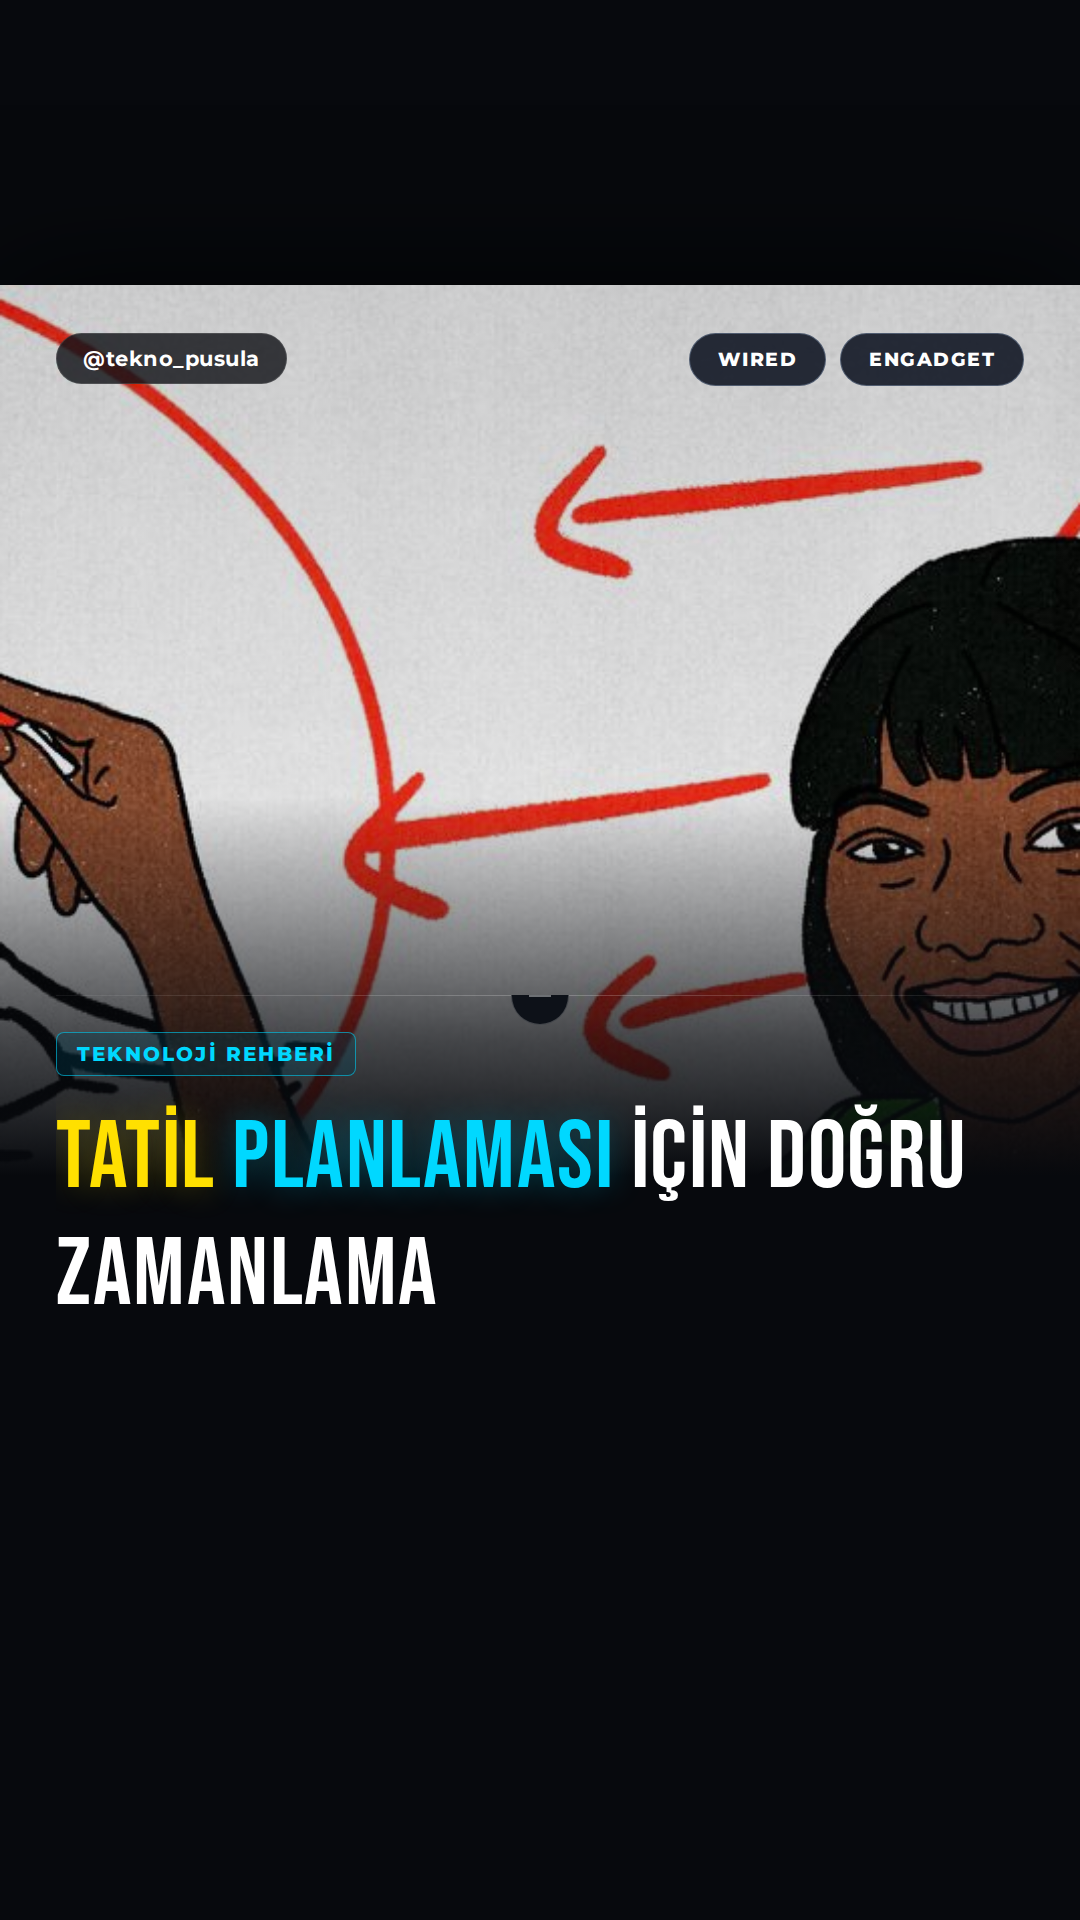
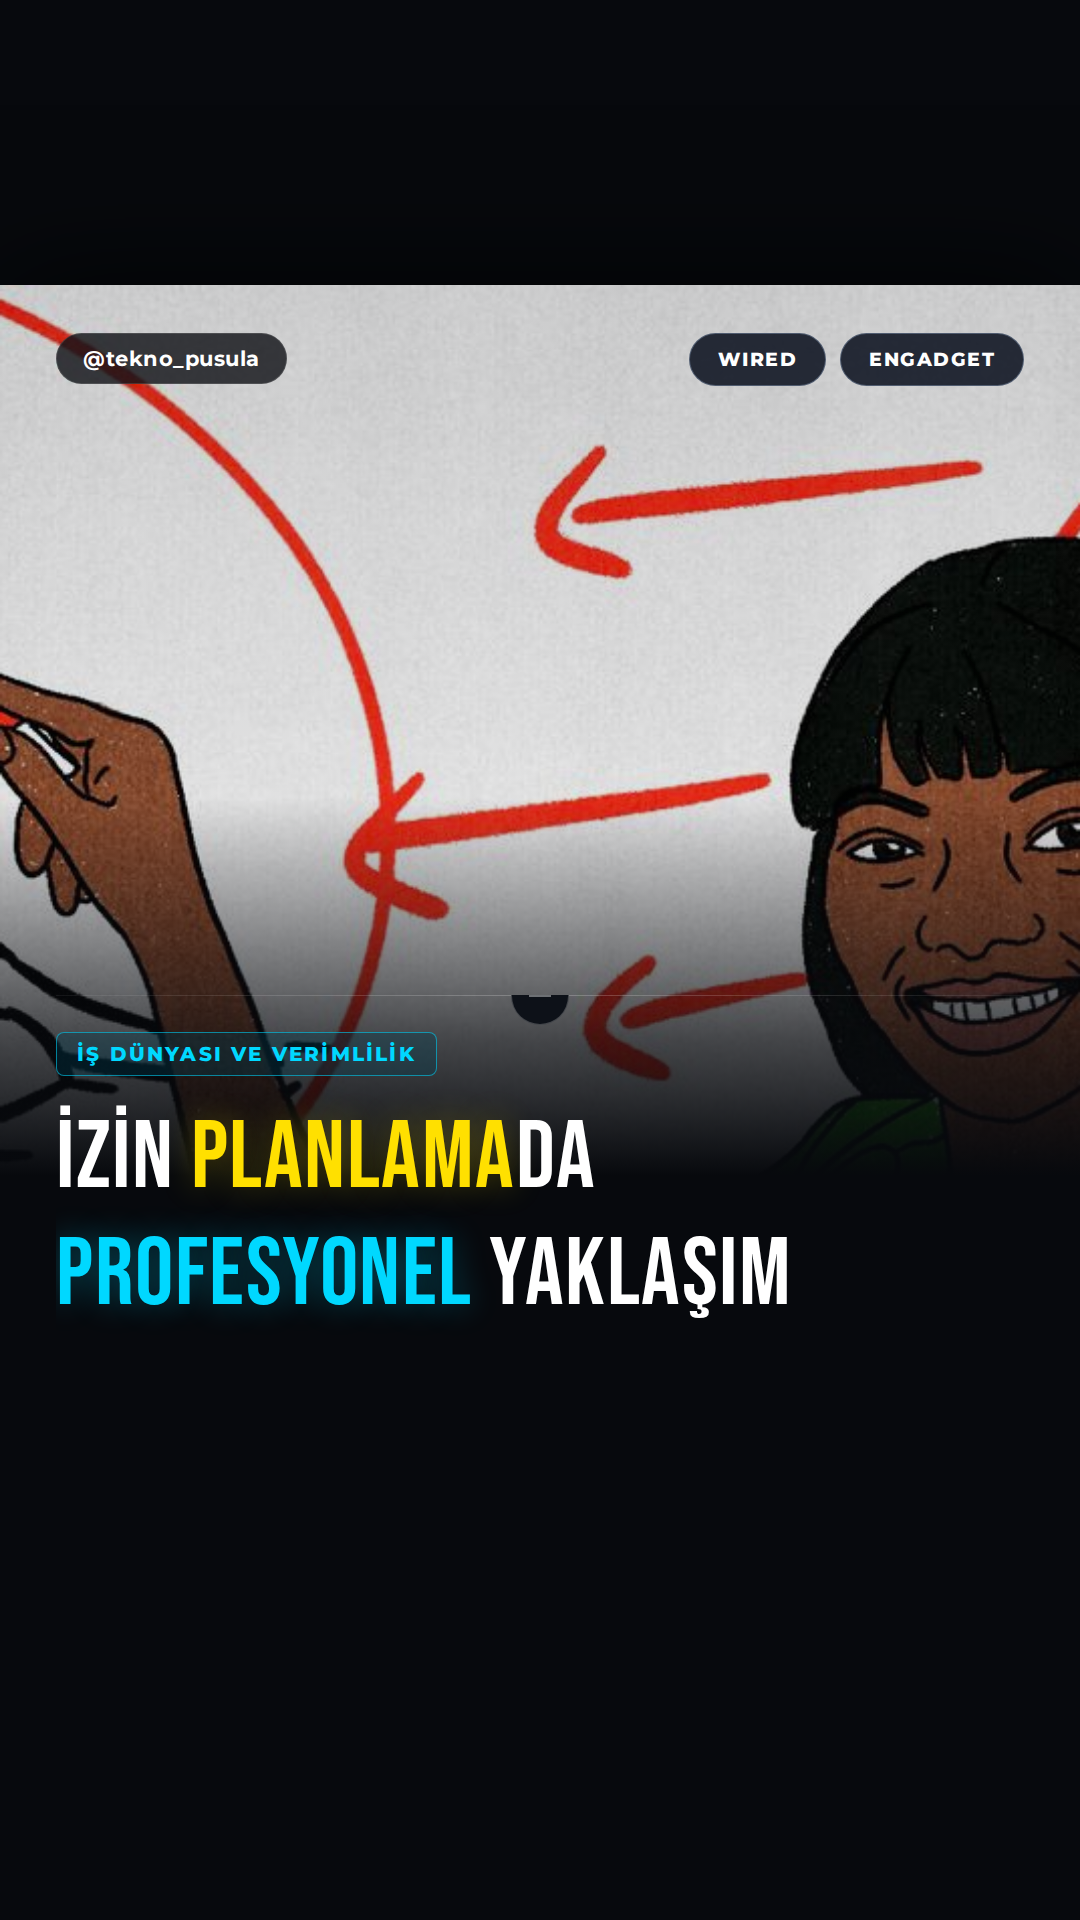
🤖 post: 2026-11-08 09:00 – How to Remind Your Boss of Your PTO Without Pissing Them Off

Changed region(s): [[0.0306, 0.5312, 0.9167, 0.6875]]

diff --git a/output/2026-11-08/01-0900-how-to-remind-your-boss-of-your-pto-without-piss/verification.md b/output/2026-11-08/01-0900-how-to-remind-your-boss-of-your-pto-without-piss/verification.md
@@ -3,60 +3,58 @@
 **Haber:** How to Remind Your Boss of Your PTO Without Pissing Them Off
 **Canonical URL:** https://www.wired.com/story/how-to-remind-your-boss-about-your-vacation/
 **Kaynaklar:** Wired, Engadget, IEEE Spectrum
-**Kontrol zamanı:** 2026-11-08T14:17:58+03:00
+**Kontrol zamanı:** 2026-11-08T14:22:23+03:00
 **Sonuç:** ✅ YAYINLANABİLİR
 
 ---
 
 ## İddia Bazlı Sonuçlar
 
-### 1. Tatil talebini planlamak icin 4 ila 6 ay onceden istemek mumkundur.
+### 1. İzin tarihini önceden planlamayı sevenler, izni dört ila altı ay öncesinden talep edebilir.
 - **Karar:** ✅ `supported`
 - **Kanıtlar:**
   - [https://www.wired.com/story/how-to-remind-your-boss-about-your-vacation/](https://www.wired.com/story/how-to-remind-your-boss-about-your-vacation/)
     > If you like to plan in advance, you might request time off four to six months out.
 
-### 2. Izin baslangicindan 4 ila 6 hafta once tatil talebinde bulunmak uygun bir suredir.
+### 2. İzin talepleri için dört ila altı hafta öncesi genellikle uygun bir süredir.
 - **Karar:** ✅ `supported`
 - **Kanıtlar:**
   - [https://www.wired.com/story/how-to-remind-your-boss-about-your-vacation/](https://www.wired.com/story/how-to-remind-your-boss-about-your-vacation/)
-    > four to six weeks before your time off is probably about right.
-  - [https://www.wired.com/story/how-to-remind-your-boss-about-your-vacation/](https://www.wired.com/story/how-to-remind-your-boss-about-your-vacation/)
     > If this conversation doesn't give you much clarity, four to six weeks before your time off is probably about right.
 
-### 3. Tatilden yaklasik iki hafta once yoneticiye ve meslektaslara toplantilarda sozlu olarak hatirlatma yapilmalidir.
+### 3. Düğün veya iadesiz seyahat gibi masraflı durumlar için altı ay veya daha öncesinden talep makul sayılabilir.
+- **Karar:** ✅ `supported`
+- **Kanıtlar:**
+  - [https://www.wired.com/story/how-to-remind-your-boss-about-your-vacation/](https://www.wired.com/story/how-to-remind-your-boss-about-your-vacation/)
+    > Occasionally, you need approval well in advance for an event that cannot move and will cost you a lot of money to cancel, like your own wedding or a nonrefundable trip. In those cases, six months or more is not unreasonable
+
+### 4. İzinden yaklaşık iki hafta önce amir ve iş arkadaşlarına toplantılarda sözlü hatırlatma yapılmalıdır.
 - **Karar:** ✅ `supported`
 - **Kanıtlar:**
   - [https://www.wired.com/story/how-to-remind-your-boss-about-your-vacation/](https://www.wired.com/story/how-to-remind-your-boss-about-your-vacation/)
     > About two weeks before your time off, remind your boss and colleagues verbally in meetings.
+  - [https://www.wired.com/story/how-to-remind-your-boss-about-your-vacation/](https://www.wired.com/story/how-to-remind-your-boss-about-your-vacation/)
+    > About two weeks before your time off, remind your boss and colleagues verbally in meetings. The ideal settings are in a weekly one-on-one meeting with your direct manager and in a team meeting.
 
-### 4. Departman disindaki kisilere planlanan izin yazili olarak bir hafta once bildirilmelidir.
+### 5. Ekip dışındaki kişilere planlanan izin yazılı olarak bir hafta önce bildirilmelidir.
 - **Karar:** ✅ `supported`
 - **Kanıtlar:**
   - [https://www.wired.com/story/how-to-remind-your-boss-about-your-vacation/](https://www.wired.com/story/how-to-remind-your-boss-about-your-vacation/)
     > If you need to tell someone beyond your team—such as clients or another department—about your planned time off, do so in writing a week before you leave.
 
-### 5. Izin baslamadan iki is gunu once,ikeylem gerektiren kisilere kisa ve net bir mesaj gonderilmelidir.
+### 6. İzinden iki iş günü önce, izin alacak kişilere kısa ve net bir mesaj gönderilmelidir.
 - **Karar:** ✅ `supported`
 - **Kanıtlar:**
   - [https://www.wired.com/story/how-to-remind-your-boss-about-your-vacation/](https://www.wired.com/story/how-to-remind-your-boss-about-your-vacation/)
     > Two business days before your time off begins, send a short, clear message to everyone who needs to know that you will be out.
 
-### 6. Izin mesajindaki ikinci tarih, tatilin son gununu degil ise baslanacak tarihi gostermelidir.
+### 7. Pazartesi günü izin başlayacaksa, mesaj perşembe günü gönderilmelidir.
 - **Karar:** ✅ `supported`
 - **Kanıtlar:**
   - [https://www.wired.com/story/how-to-remind-your-boss-about-your-vacation/](https://www.wired.com/story/how-to-remind-your-boss-about-your-vacation/)
-    > The second DATE is the day you return to work, not the last day of your PTO.
+    > Why send this message two business days out? Simple: If your first PTO day is Monday, you send this message on Thursday
 
-### 7. Izin baslamadan iki is gunu once gonderilecek mesaj Persembe gunu gonderilmelidir eger izin Pazartesi basliyorsa.
-- **Karar:** ✅ `supported`
-- **Kanıtlar:**
-  - [https://www.wired.com/story/how-to-remind-your-boss-about-your-vacation/](https://www.wired.com/story/how-to-remind-your-boss-about-your-vacation/)
-    > If your first PTO day is Monday, you send this message on Thursday so that anybody who takes off or calls in sick on Friday still sees it in time.
-  - [https://www.wired.com/story/how-to-remind-your-boss-about-your-vacation/](https://www.wired.com/story/how-to-remind-your-boss-about-your-vacation/)
-    > Why send this message two business days out? Simple: If your first PTO day is Monday, you send this message on Thursday so that anybody who takes off or calls in sick on Friday still sees it in time.
-
-### 8. Asiri unutkan yoneticiler ve is arkadaslari icin iznin ilk gunu saat 08:30 da otomatik bir mesaj ayarlanabilir.
+### 8. İzin gününde saat 8:30'da otomatik bir mesaj kurulabilir.
 - **Karar:** ✅ `supported`
 - **Kanıtlar:**
   - [https://www.wired.com/story/how-to-remind-your-boss-about-your-vacation/](https://www.wired.com/story/how-to-remind-your-boss-about-your-vacation/)
@@ -68,14 +66,14 @@
 
 | İddia | 1. Tur | 2. Tur | Nihai |
 |-------|--------|--------|-------|
-| Tatil talebini planlamak icin 4 ila 6 ay onceden istemek mum | supported | supported | supported |
-| Izin baslangicindan 4 ila 6 hafta once tatil talebinde bulun | supported | supported | supported |
-| Tatilden yaklasik iki hafta once yoneticiye ve meslektaslara | supported | supported | supported |
-| Departman disindaki kisilere planlanan izin yazili olarak bi | supported | supported | supported |
-| Izin baslamadan iki is gunu once,ikeylem gerektiren kisilere | supported | supported | supported |
-| Izin mesajindaki ikinci tarih, tatilin son gununu degil ise  | supported | supported | supported |
-| Izin baslamadan iki is gunu once gonderilecek mesaj Persembe | supported | supported | supported |
-| Asiri unutkan yoneticiler ve is arkadaslari icin iznin ilk g | supported | supported | supported |
+| İzin tarihini önceden planlamayı sevenler, izni dört ila alt | supported | supported | supported |
+| İzin talepleri için dört ila altı hafta öncesi genellikle uy | supported | supported | supported |
+| Düğün veya iadesiz seyahat gibi masraflı durumlar için altı  | supported | supported | supported |
+| İzinden yaklaşık iki hafta önce amir ve iş arkadaşlarına top | supported | supported | supported |
+| Ekip dışındaki kişilere planlanan izin yazılı olarak bir haf | supported | supported | supported |
+| İzinden iki iş günü önce, izin alacak kişilere kısa ve net b | supported | supported | supported |
+| Pazartesi günü izin başlayacaksa, mesaj perşembe günü gönder | supported | supported | supported |
+| İzin gününde saat 8:30'da otomatik bir mesaj kurulabilir. | supported | supported | supported |
 
 ## Kaynak Metinleri
 

diff --git a/output/2026-11-08/01-0900-how-to-remind-your-boss-of-your-pto-without-piss/captions.md b/output/2026-11-08/01-0900-how-to-remind-your-boss-of-your-pto-without-piss/captions.md
@@ -2,36 +2,72 @@
 
 ## INSTAGRAM
 
-Tatil planlamasını stressiz yönetmek artık çok kolay! İzin süreçlerinizi doğru zamanlamayla nasıl planlayacağınızı adım adım rehberimizde derledik. Uzun vadeli planlar için 4 ila 6 ay öncesi ideal bir zaman dilimiyken, yakın dönem planlarda bu süre 4 ila 6 haftaya kadar iniyor. Siz tatil planlarınızı ne kadar süre önceden yapıyorsunuz? Kaynak: Wired, Engadget
+İş akışını bozmadan, huzurla tatil yapmanın sırrı doğru planlamadan geçiyor! 🏖 Profesyonel bir izin süreci, hem sizin hem de ekibinizin üzerindeki stresi azaltır.
 
-#tatil #tatilplanlamasi #teknorehber #izin #seyahat #planlama #wired #engadget #travel #vacation #planning
+Genel izin taleplerinizi 4-6 hafta öncesinden iletmek en idealidir. Düğün veya büyük seyahatler gibi özel durumlarda ise bu süreyi 6 aya kadar çıkarabilirsiniz.
+
+Unutmayın, izne çıkmadan 2 iş günü önce ekibinize kısa bir hatırlatma mesajı atmak, profesyonelliğinizi gösterir ve iş akışını korur.
+
+Siz izin planlarınızı ne kadar süre önceden yapıyorsunuz? Yorumlarda buluşalım!
+
+Kaynak: Wired, Engadget, IEEE Spectrum
+
+#İşDünyası #Verimlilik #Kariyerİpuçları #İzinPlanlama #ProfesyonelGelişim #WorkLifeBalance #TimeManagement #CareerTips
 
 ## TIKTOK
 
-Tatil planınızı ne zaman yapmalısınız? 4-6 ay önceden planlamanın sırları ve iş yerinde sorunsuz izin süreci rehberi! Kaynak: Wired
+İş yerinde izin alırken profesyonel kalmanın yolları! 📅 İzin talebini ne zaman yapmalı? İzin öncesi hatırlatma mesajı neden kritik? İşte iş akışını bozmadan tatil yapmanın rehberi. 🚀
 
-#tatil #planlama #wired #traveltok
+Kaynak: Wired, Engadget, IEEE Spectrum
+
+#Kariyer #İşHayatı #Verimlilik
 
 ## X
 
-Tatil planlamasını stressiz yönetmek için doğru zamanlama rehberi yayında! Uzun vadeli planlar için 4-6 ay, yakın dönem için 4-6 hafta önceden bildirim hayat kurtarıyor. Siz tatilleri ne zaman planlıyorsunuz? Kaynak: Wired, Engadget
+İzin planlamada profesyonel yaklaşım: Genel izinler için 4-6 hafta, özel durumlar için 6 ay öncesinden bildirimde bulunun. İzne çıkmadan 2 iş günü önce hatırlatma mesajı atmayı unutmayın. İş akışını bozmadan tatil yapmanın yolu bu! 🏖
 
-#tatil #rehber
+Kaynak: Wired, Engadget, IEEE Spectrum
+
+#Kariyer #Verimlilik
 
 ## THREADS
 
-Tatil Planlaması İçin Doğru Zamanlama 🌴 İzin süreçlerini stressiz yönetmek için adım adım rehberimiz yayında. Uzun vadeli planlar için 4-6 ay, yakın dönem için 4-6 hafta önceden bildirim yapmak en doğrusu. Siz tatil planlarınızı ne kadar süre önceden yapıyorsunuz? 💭 Kaynak: Wired
+İzin Planlamada Profesyonel Yaklaşım 📅
 
-#tatil
+İzin taleplerinizi 4-6 hafta öncesinden iletmek, iş akışını korumak için en ideal süredir. Özel durumlarda ise 6 ay öncesinden planlama yapmak profesyonel bir yaklaşımdır.
+
+İzinden 2 iş günü önce ekibinize kısa bir hatırlatma mesajı atmayı unutmayın. Bu, hem sizin hem de iş arkadaşlarınızın hazırlıklı olmasını sağlar. 💭
+
+Kaynak: Wired, Engadget, IEEE Spectrum
+
+#Kariyer
 
 ## LINKEDIN
 
-İş hayatında izin süreçlerini stressiz ve profesyonel bir şekilde yönetmek doğru zamanlamadan geçer. Tatil taleplerini uzun vadede 4 ila 6 ay, yakın dönemde ise 4 ila 6 hafta öncesinden planlamak hem çalışan hem de ekip için iş süreçlerini aksatmaz. İzin dönemi iletişiminde kısa, net mesajlar ve doğru tarih detayları paylaşmak iletişimin sürekliliğini sağlar. Bu rehber ile izin süreçlerinizi optimize edebilirsiniz. Kaynak: Wired, Engadget, IEEE Spectrum
+İş dünyasında profesyonellik, izin süreçlerini yönetirken de kendini gösterir. İzin planlaması, ekibin iş akışını bozmadan, sürdürülebilir bir çalışma düzeni kurmanın anahtarıdır.
 
-#isdunyasi #ik #yonetim #kariyer #planlama
+Genel izin taleplerinde 4-6 haftalık bir ön bildirim, kritik projelerde ise 6 aylık bir perspektif profesyonel bir yaklaşımdır.
+
+İletişim takviminizde şu iki noktaya dikkat edin:
+1. İzin öncesi 2 iş günü: Kısa ve net bir hatırlatma mesajı gönderin.
+2. İzin günü: Otomatik mesaj ile ulaşılabilir olmadığınızı netleştirin.
+
+Zamanında yapılan bildirimler, ekip içi güveni pekiştirir. Siz izin süreçlerinizi nasıl yönetiyorsunuz?
+
+Kaynak: Wired, Engadget, IEEE Spectrum
+
+#İşDünyası #Verimlilik #KariyerYönetimi #Profesyonellik
 
 ## FACEBOOK
 
-Tatil planlamasını stressiz yönetmek isteyenler için adım adım rehberimiz yayında! İzin süreçlerinizi doğru zamanlamayla planlayarak iş ve tatil dengesini kolayca kurabilirsiniz. Uzun vadeli planlar için 4-6 ay, yakın dönem için 4-6 hafta kuralını unutmayın. Siz tatil planlarınızı ne kadar süre önceden yapıyorsunuz? Kaynak: Wired, Engadget
+İş akışını bozmadan, huzurla tatil yapmanın zamanlama rehberi! 🏖
 
-#tatil #tatilplanlamasi #rehber #seyahat #wired
+İzin taleplerinizi 4-6 hafta öncesinden iletmek en uygun süredir. Düğün veya önemli seyahatler gibi özel durumlarda ise 6 ay öncesinden planlama yapmak profesyonel bir yaklaşımdır.
+
+İzinden 2 iş günü önce ekibinize kısa bir hatırlatma mesajı atmak, iş süreçlerinin aksamasını engeller ve ekip içi güveni pekiştirir. Profesyonel bir yaklaşım, izin döneminde üzerinizdeki baskıyı da azaltır.
+
+Siz izin planlarınızı ne kadar süre önceden yapıyorsunuz? Yorumlarda paylaşın!
+
+Kaynak: Wired, Engadget, IEEE Spectrum
+
+#İşDünyası #Verimlilik #Kariyer #İzinPlanlama
